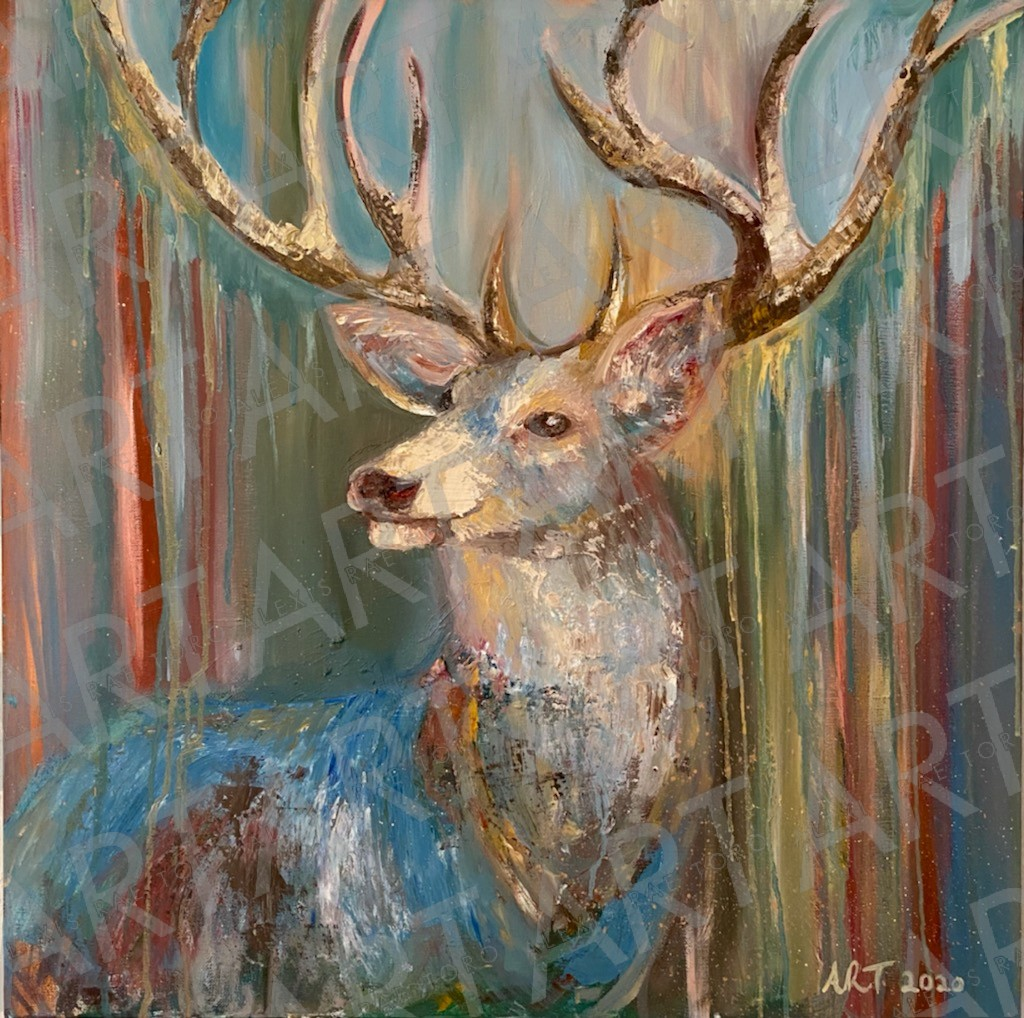
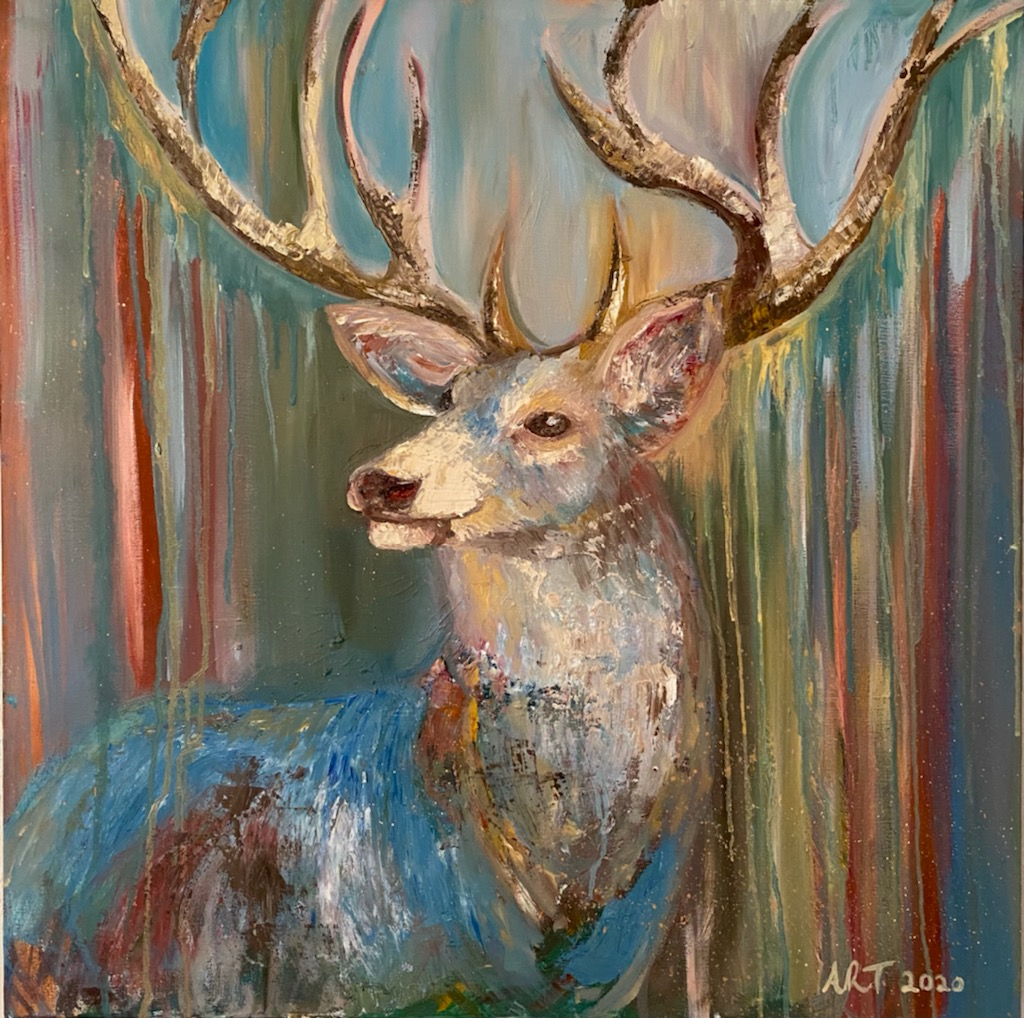
Removing watermarks and miscellaneous page

diff --git a/src/redux/store.js b/src/redux/store.js
@@ -11,11 +11,11 @@ let initialState = {};
 
 initialState[STORETYPES[0]] = [{
     'id': 1,
-    'title': 'Ziggy the Piggy',
-    'img': '../img/ziggy-the-piggy-oil.png',
-    'size': '8x10 Oval Canvas',
+    'title': 'Mocha',
+    'img': '../img/Mocha.png',
+    'size': '8”x10” Oval',
     'status': 'Sold'
-}, {
+},{
     'id': 2,
     'title': 'Landscape',
     'img': '../img/oil-painting-1.png',
@@ -24,7 +24,7 @@ initialState[STORETYPES[0]] = [{
 },{
     'id': 3,
     'title': 'Cinnamon',
-    'img': '../img/cinnamon-oil-2.jpg',
+    'img': '../img/cinnamon.jpg',
     'size': '18x24 Inches',
     'status': 'Sold'
 },{
@@ -55,13 +55,13 @@ initialState[STORETYPES[0]] = [{
 initialState[STORETYPES[1]] = [{
     'id': 2,
     'title': 'Brainard Lake',
-    'img': '../img/watercolor-donation.png',
+    'img': '../img/watercolor-donation.jpg',
     'size': 'Donation to Plenty of',
     'status': 'Pitbulls Auction'
 },{
     'id': 3,
     'title': 'Elk Mountain',
-    'img': '../img/watercolor-painting-1.png',
+    'img': '../img/watercolor-1.jpg',
     'size': '8x10',
     'status': 'Sold'
 },{
@@ -78,21 +78,21 @@ initialState[STORETYPES[1]] = [{
     'status': 'Sold'
 }];
 initialState[STORETYPES[2]] = [{
-    'id': 1,
-    'title': 'Ziggy the Piggy',
-    'img': '../img/ziggy-the-piggy-oil.png',
-    'size': '8x10 Oval Canvas',
-    'status': 'Sold'
-}, {
     'id': 2,
     'title': 'Landscape',
-    'img': '../img/oil-painting-1.png',
+    'img': '../img/oil-painting-1.jpg',
     'size': '18x24',
+    'status': 'Sold'
+},{
+    'id': 1,
+    'title': 'Mocha',
+    'img': '../img/Mocha.png',
+    'size': '8”x10” Oval',
     'status': 'Sold'
 },{
     'id': 3,
     'title': 'Cinnamon',
-    'img': '../img/cinnamon-oil-2.jpg',
+    'img': '../img/cinnamon.jpg',
     'size': '18x24 Inches',
     'status': 'Sold'
 }, {

diff --git a/src/Header.js b/src/Header.js
@@ -15,10 +15,9 @@ class Header extends React.Component {
               <Navbar.Toggle aria-controls="basic-navbar-nav" />
               <Navbar.Collapse id="basic-navbar-nav">
                 <Nav className="mr-auto">
-                    <NavDropdown title="Commissions">
+                    <NavDropdown title="Paintings">
                         <NavDropdown.Item href="/commissions/watercolor">Watercolor</NavDropdown.Item>
                         <NavDropdown.Item href="/commissions/oil">Oil</NavDropdown.Item>
-                        <NavDropdown.Item href="/commissions/miscellaneous">Miscellaneous</NavDropdown.Item>
                     </NavDropdown>
                     <Nav.Link href="/private-art-instruction">Private Art Instruction</Nav.Link>
                     <Nav.Link href="/contact">Contact</Nav.Link>
